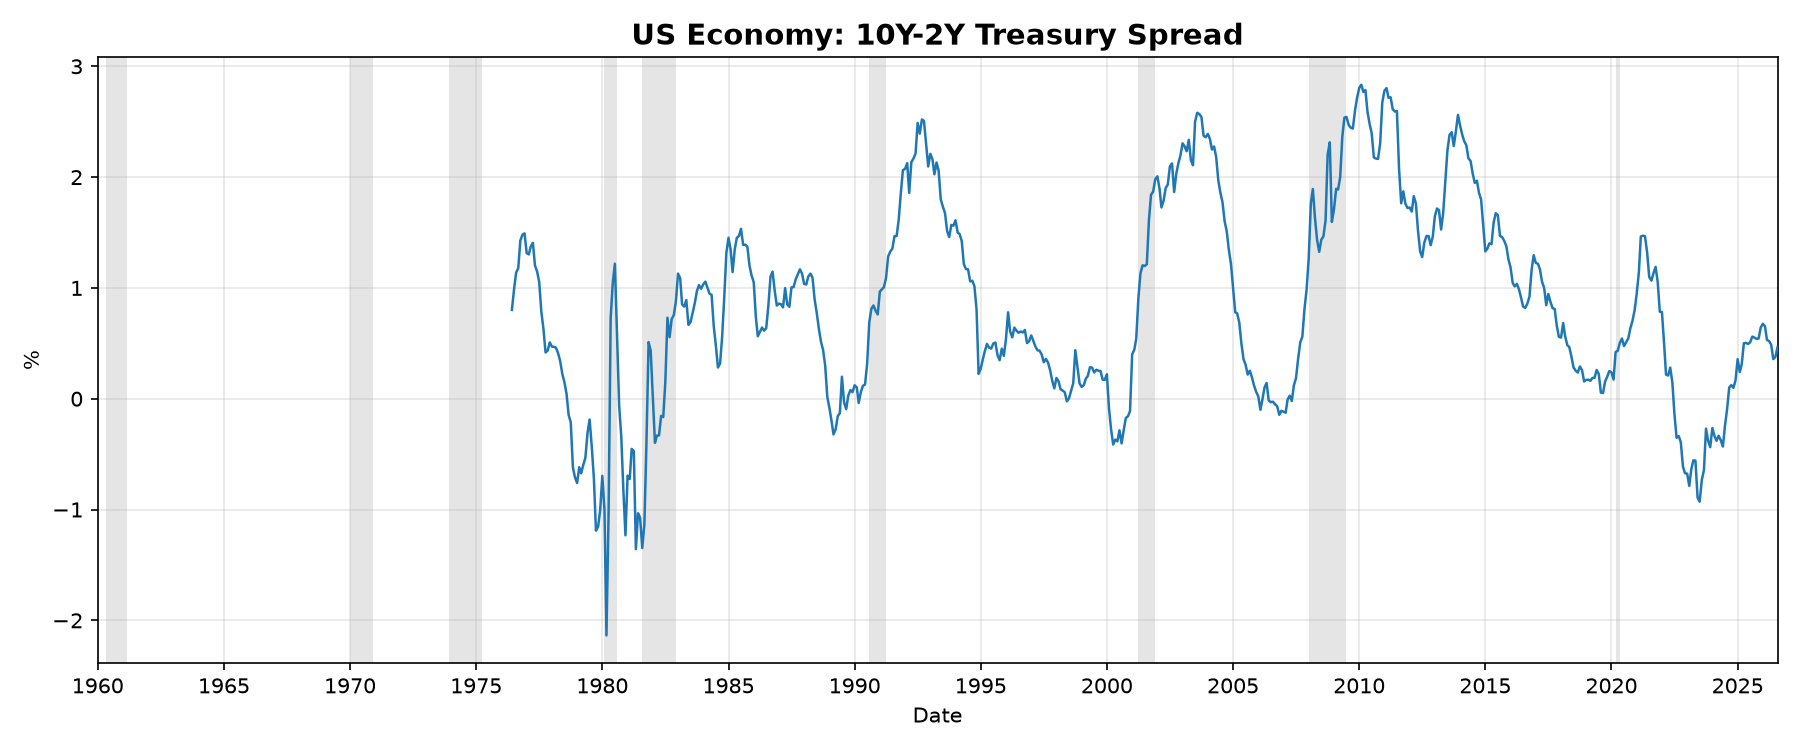
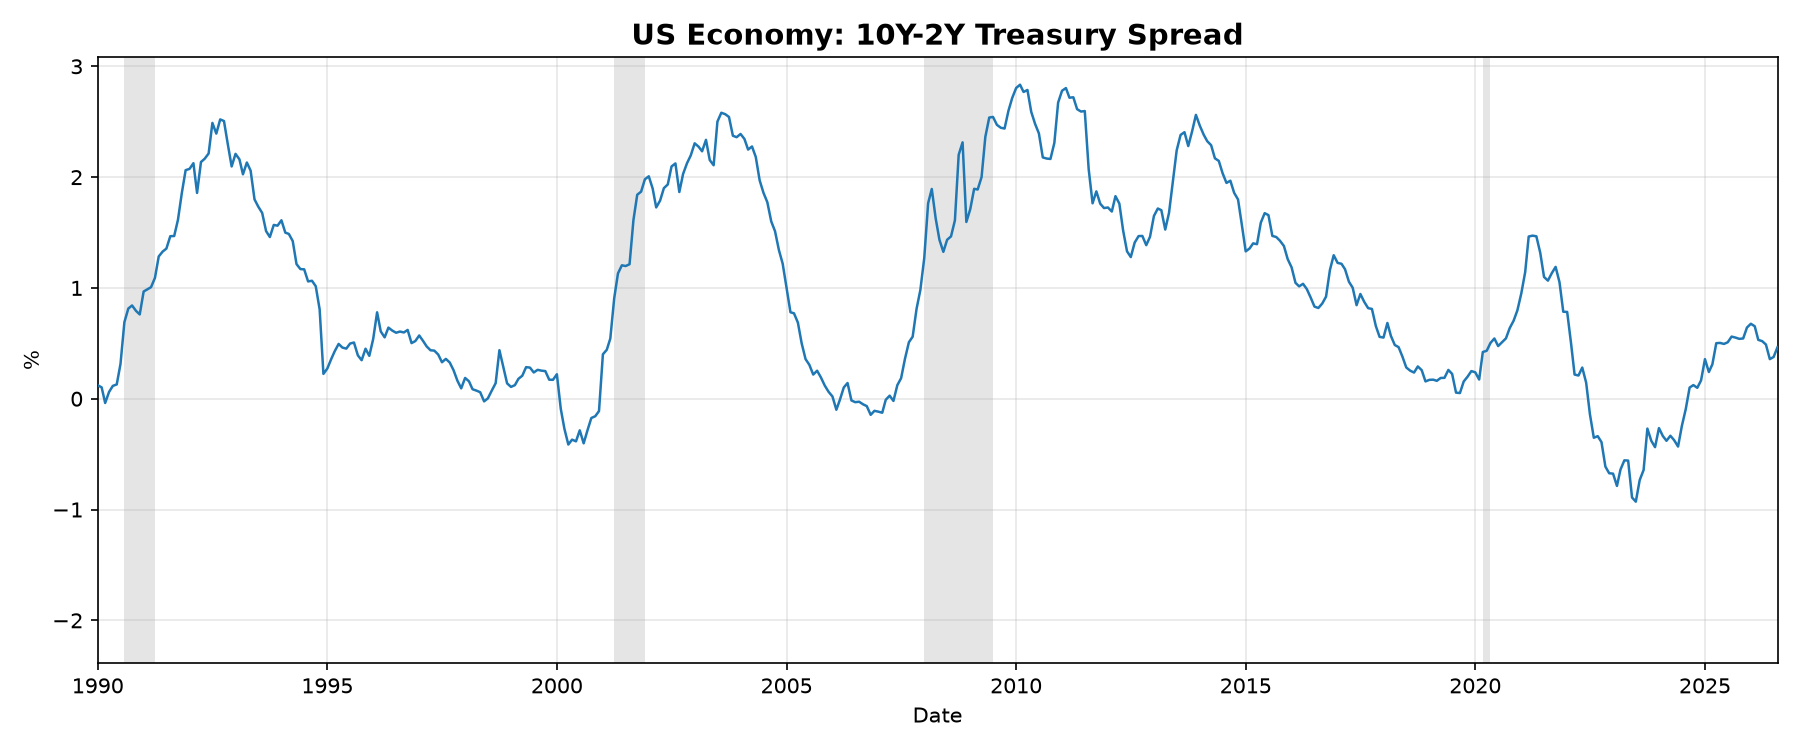
Start all plots from 1990

diff --git a/plot_data.py b/plot_data.py
@@ -111,7 +111,7 @@ def plot_individual(series: pd.Series, label: str, y_label: str, group: str,
     ax.set_ylabel(y_label)
     ax.set_xlabel("Date")
     # Clip x-axis: start 1960, end at data range
-    ax.set_xlim(pd.Timestamp("1960-01-01"), series.index.max())
+    ax.set_xlim(pd.Timestamp("1990-01-01"), series.index.max())
     ax.xaxis.set_major_locator(mdates.YearLocator(5))
     ax.xaxis.set_major_formatter(mdates.DateFormatter("%Y"))
     ax.grid(True, alpha=0.3)
@@ -171,7 +171,7 @@ def plot_overlay(all_series: dict[str, pd.Series],
 
     # Clip x-axis: start 1960, end at data range
     all_max = max(s.index.max() for s in all_series.values() if not s.dropna().empty)
-    axes[-1].set_xlim(pd.Timestamp("1960-01-01"), all_max)
+    axes[-1].set_xlim(pd.Timestamp("1990-01-01"), all_max)
 
     axes[-1].set_xlabel("Date")
     axes[-1].xaxis.set_major_locator(mdates.YearLocator(5))
